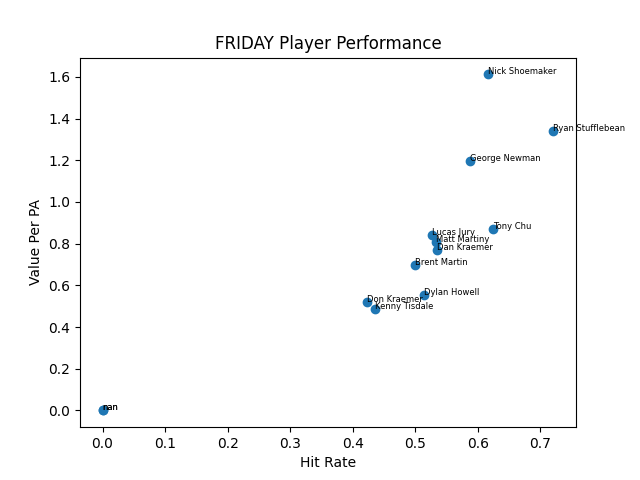
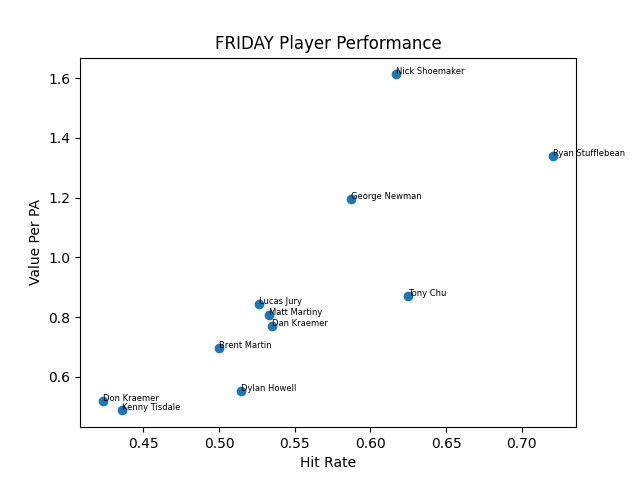
Add data filtering to plot_value_vs_hit_rate and integrate it into main report

diff --git a/src/main.py b/src/main.py
@@ -4,6 +4,8 @@ from archetypes import add_archetypes
 from team_optimizer import recommend_batting_order
 from report import generate_team_report
 from pretty_print import print_top_players, print_batting_order
+from charts import plot_value_vs_hit_rate
+
 
 print("\n Slowpitch Performance Lab\n")
 
@@ -29,7 +31,7 @@ def print_team_report(df, league_name):
 
     print("\n TEAM ANALYSIS")
     print(report)
-
+    plot_value_vs_hit_rate(leaderboard, league_name)
 
 def main():
     monday = load_gamechanger_csv("data/raw/monday.csv", league="MON")
@@ -37,7 +39,7 @@ def main():
 
     print_team_report(monday, "MONDAY")
     print_team_report(friday, "FRIDAY")
-
+    
 
 if __name__ == "__main__":
     main()

diff --git a/src/charts.py b/src/charts.py
@@ -2,6 +2,7 @@ import matplotlib.pyplot as plt
 
 
 def plot_value_vs_hit_rate(df, league_name):
+    df = df[(df["PLAYER"].notna()) & (df["PA"] > 0)]
     plt.figure()
 
     plt.scatter(df["hit_rate"], df["value_per_pa"])
